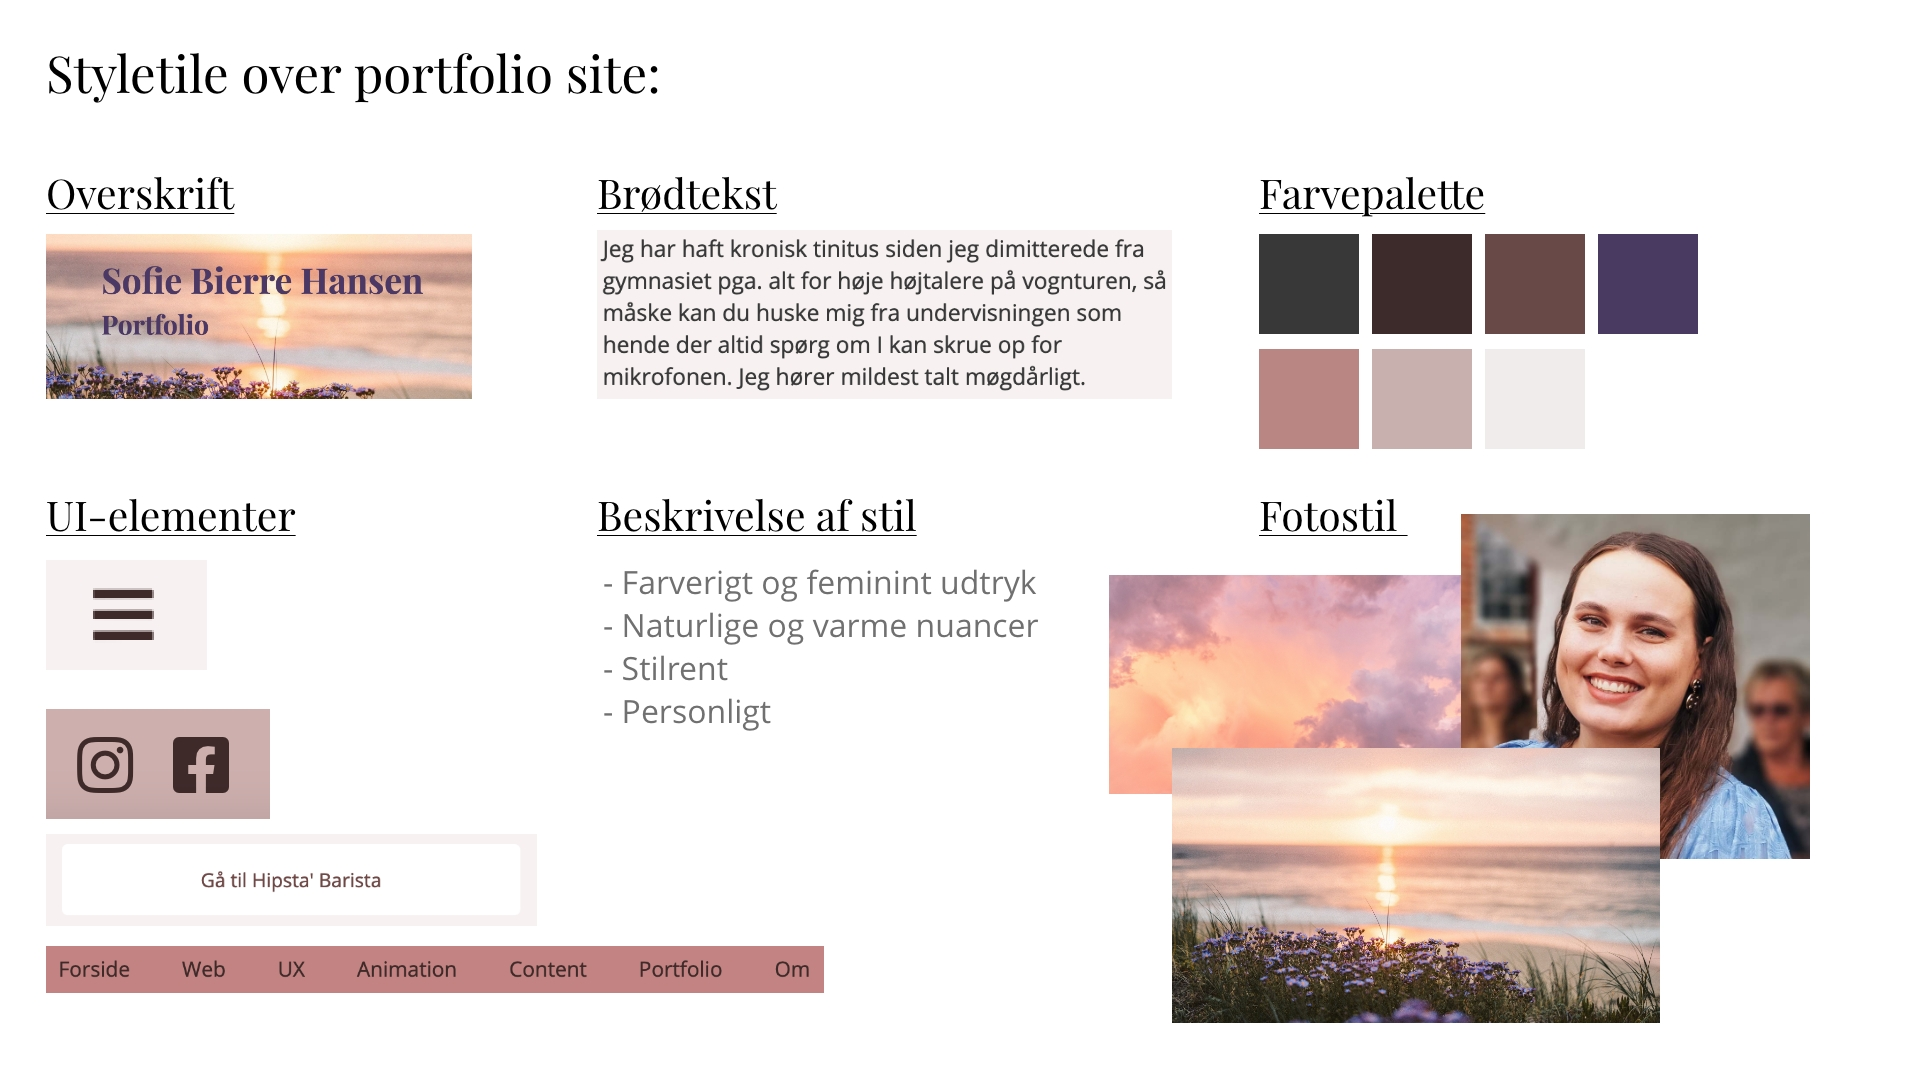
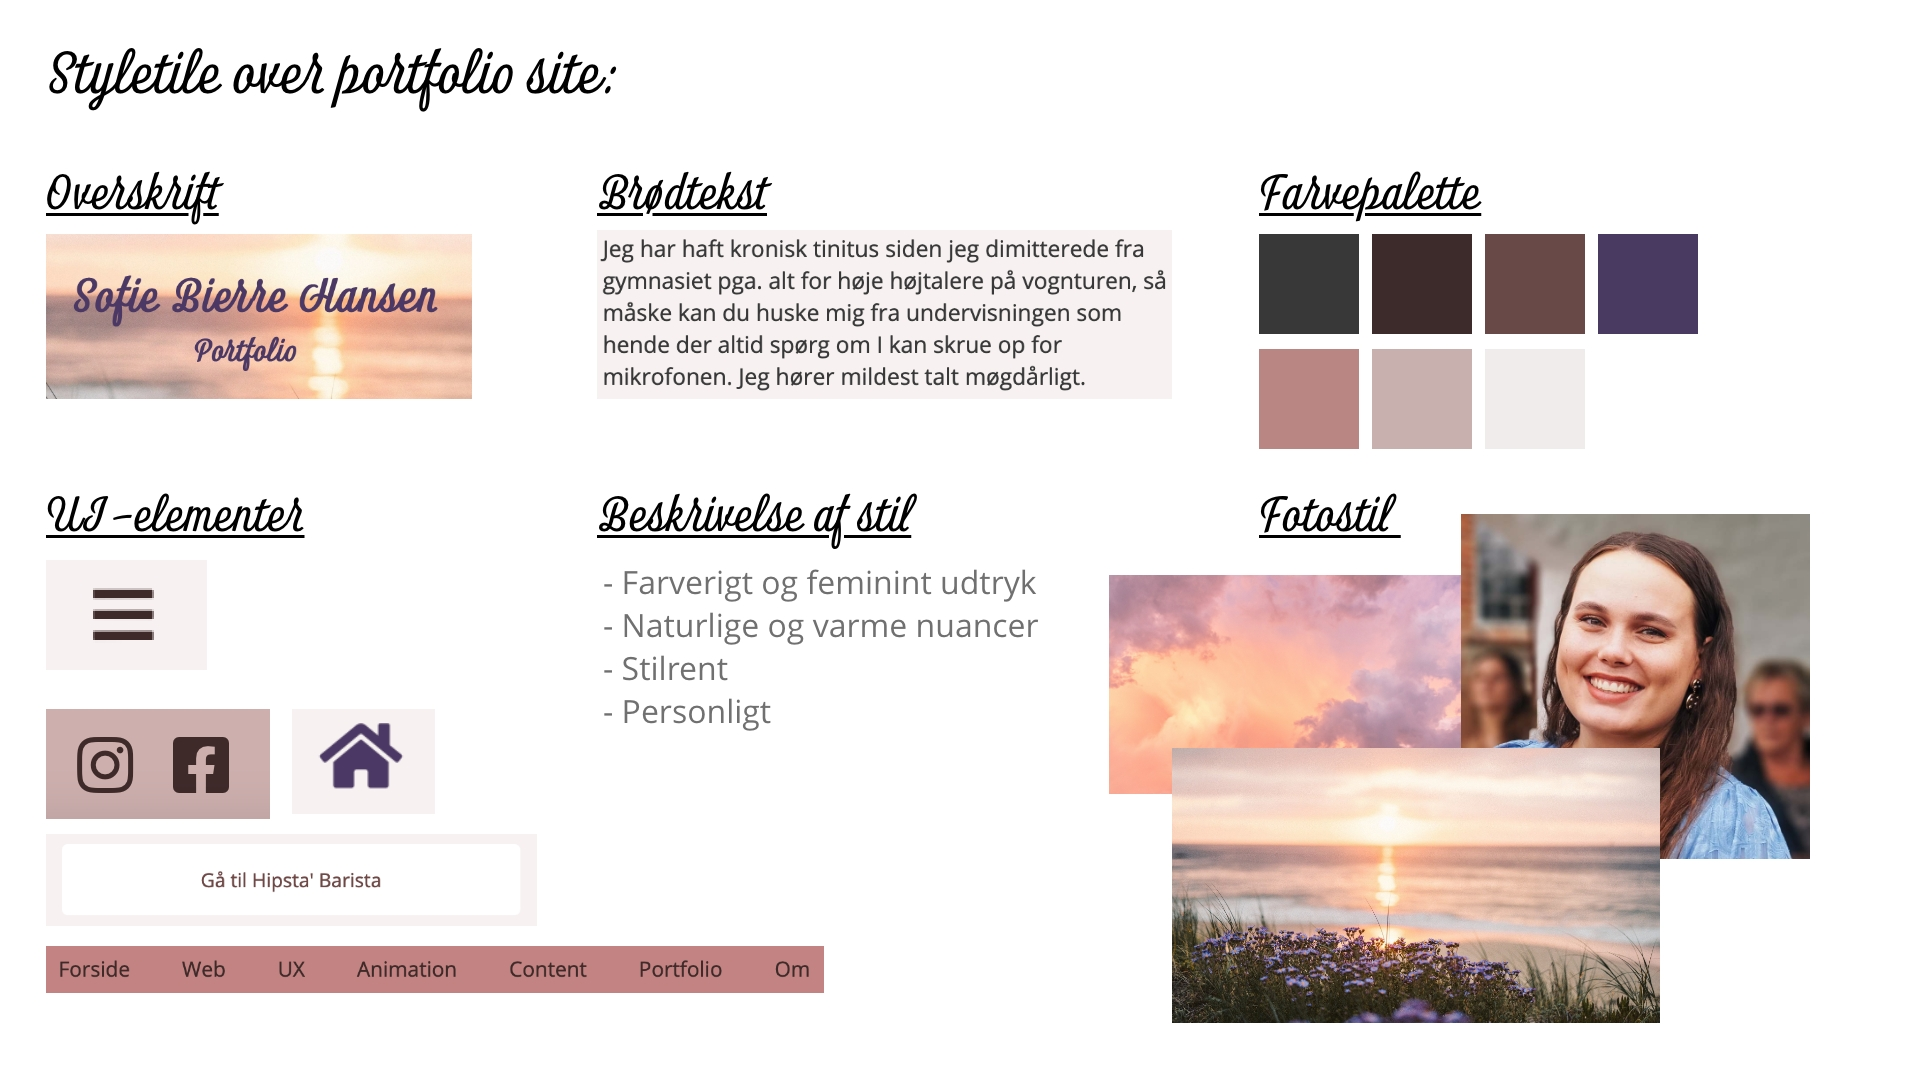
tirsdag aften

diff --git a/portfolio.html b/portfolio.html
@@ -16,12 +16,15 @@
     <link
       rel="icon"
       type="image/svg+xml"
-      href="billeder/favicon_portfolio2.svg"
+      href="billeder/favicon_portfolio.svg"
     />
     <title>Portfolio</title>
   </head>
   <body>
     <header class="banner">
+      <div class="logo">
+        <a href="index.html"><i class="fas fa-home"></i></a>
+      </div>
       <button class="toggle-btn">☰</button>
 
       <nav>
@@ -53,20 +56,20 @@
             præsenteres i min farvepalette. Til mine fonte har jeg valgt en
             feminin displayfont i script da det personlige aspekt skulle spille
             med ind over, og en helt simpel sans-serif til min brødtekst. Jeg
-            har lavet wireframes over hver side for at planlægge hvordan mit
+            har lavede wireframes over hver side for at planlægge hvordan mit
             portfolio skulle se ud i sin struktur før jeg tog nogle designvalg,
             og efterfølgende lavet layoutdiagrammer med overblik over mine kode
-            for at se hvordan den skulle udføres. Jeg har efter konventionerne
+            for at se hvordan den skulle udføres. Jeg har efter konventioner
             valgt at placere min burgermenu i mobil oppe i venstre hjørne, og
             som én lang menubar i web hvor den er let tilgængelig. Endvidere har
             jeg i min footer den mest basale info både om mig og selve sitet og
             call-to-action navigation i mine knapper. Min h1, h2 og h3 står også
-            i et størrelseshierarki man ofte ser med størst fontstørrelse ved H1
+            i et størrelseshierarki man ofte ser med størst fontstørrelse ved h1
             og derefter nedad. Mit store fokuspunkt under opbygningen af mit
             portfolio har været at få grid lidt mere under huden. Som man kan se
-            på så sent som tema 4 kunne jeg bare ikke rigtig få de mest simple
-            grids til at samarbejde med mig. Det har været så lærerigt at side
-            med et større site og få det ned i fingrene.
+            på så sent som tema 4 kunne jeg ikke rigtig få de mest simple grids
+            til at samarbejde med mig. Det har været så lærerigt at side med et
+            større site og få det ned i fingrene.
           </p>
           <img src="billeder/portfolio_styletile.jpg" alt="styletile" />
         </div>

diff --git a/styles.css b/styles.css
@@ -17,6 +17,19 @@ iframe {
   aspect-ratio: 16/9;
 }
 
+.logo a {
+  display: flex;
+  list-style: none;
+  text-align: center;
+  justify-content: center;
+  font-size: 1.8rem;
+  font-family: look-script, serif;
+  font-weight: 700;
+  font-style: normal;
+  color: rgb(75, 56, 100);
+  margin: 0.5rem;
+}
+
 p,
 li {
   max-width: 75ch;
@@ -228,16 +241,12 @@ footer p {
     flex-flow: column;
     list-style: none;
     margin: 1.4rem;
-    gap: 1rem;
+    gap: 0.2rem;
   }
 }
 
 /* Web */
 @media only screen and (min-width: 800px) {
-  img {
-    margin-bottom: 0rem;
-  }
-
   h1 {
     margin-bottom: 0.7rem;
     font-size: 2.4rem;
@@ -251,6 +260,10 @@ footer p {
   h3 {
     margin-bottom: 1.6rem;
     font-size: 1.6rem;
+  }
+
+  .logo a {
+    display: none;
   }
 
   .banner {

diff --git a/om.html b/om.html
@@ -16,12 +16,15 @@
     <link
       rel="icon"
       type="image/svg+xml"
-      href="billeder/favicon_portfolio2.svg"
+      href="billeder/favicon_portfolio.svg"
     />
     <title>Om</title>
   </head>
   <body>
     <header class="banner">
+      <div class="logo">
+        <a href="index.html"><i class="fas fa-home"></i></a>
+      </div>
       <button class="toggle-btn">☰</button>
 
       <nav>
@@ -91,6 +94,8 @@
           <p>Sabbatår hos Skoringen Ros' Torv</p>
           <h3>2020-2021</h3>
           <p>Københavs Universitet, Religionsvidenskab BA</p>
+          <h3>2021-Nu</h3>
+          <p>Mulitmediedesigner, Københavns Erhvervsakademi</p>
         </div>
       </section>
     </main>

diff --git a/index.html b/index.html
@@ -16,12 +16,17 @@
     <link
       rel="icon"
       type="image/svg+xml"
-      href="billeder/favicon_portfolio2.svg"
+      href="billeder/favicon_portfolio.svg"
     />
+
     <title>Forside</title>
   </head>
   <body>
     <header class="banner">
+      <div class="logo">
+        <a href="index.html"><i class="fas fa-home"></i></a>
+      </div>
+
       <button class="toggle-btn">☰</button>
 
       <nav>

diff --git a/animation.html b/animation.html
@@ -16,12 +16,15 @@
     <link
       rel="icon"
       type="image/svg+xml"
-      href="billeder/favicon_portfolio2.svg"
+      href="billeder/favicon_portfolio.svg"
     />
     <title>Animation</title>
   </head>
   <body>
     <header class="banner">
+      <div class="logo">
+        <a href="index.html"><i class="fas fa-home"></i></a>
+      </div>
       <button class="toggle-btn">☰</button>
 
       <nav>

diff --git a/content.html b/content.html
@@ -16,12 +16,15 @@
     <link
       rel="icon"
       type="image/svg+xml"
-      href="billeder/favicon_portfolio2.svg"
+      href="billeder/favicon_portfolio.svg"
     />
     <title>Content</title>
   </head>
   <body>
     <header class="banner">
+      <div class="logo">
+        <a href="index.html"><i class="fas fa-home"></i></a>
+      </div>
       <button class="toggle-btn">☰</button>
 
       <nav>

diff --git a/web.html b/web.html
@@ -16,12 +16,15 @@
     <link
       rel="icon"
       type="image/svg+xml"
-      href="billeder/favicon_portfolio2.svg"
+      href="billeder/favicon_portfolio.svg"
     />
     <title>Web</title>
   </head>
   <body>
     <header class="banner">
+      <div class="logo">
+        <a href="index.html"><i class="fas fa-home"></i></a>
+      </div>
       <button class="toggle-btn">☰</button>
 
       <nav>

diff --git a/ux.html b/ux.html
@@ -16,12 +16,15 @@
     <link
       rel="icon"
       type="image/svg+xml"
-      href="billeder/favicon_portfolio2.svg"
+      href="billeder/favicon_portfolio.svg"
     />
     <title>UX</title>
   </head>
   <body>
     <header class="banner">
+      <div class="logo">
+        <a href="index.html"><i class="fas fa-home"></i></a>
+      </div>
       <button class="toggle-btn">☰</button>
 
       <nav>
